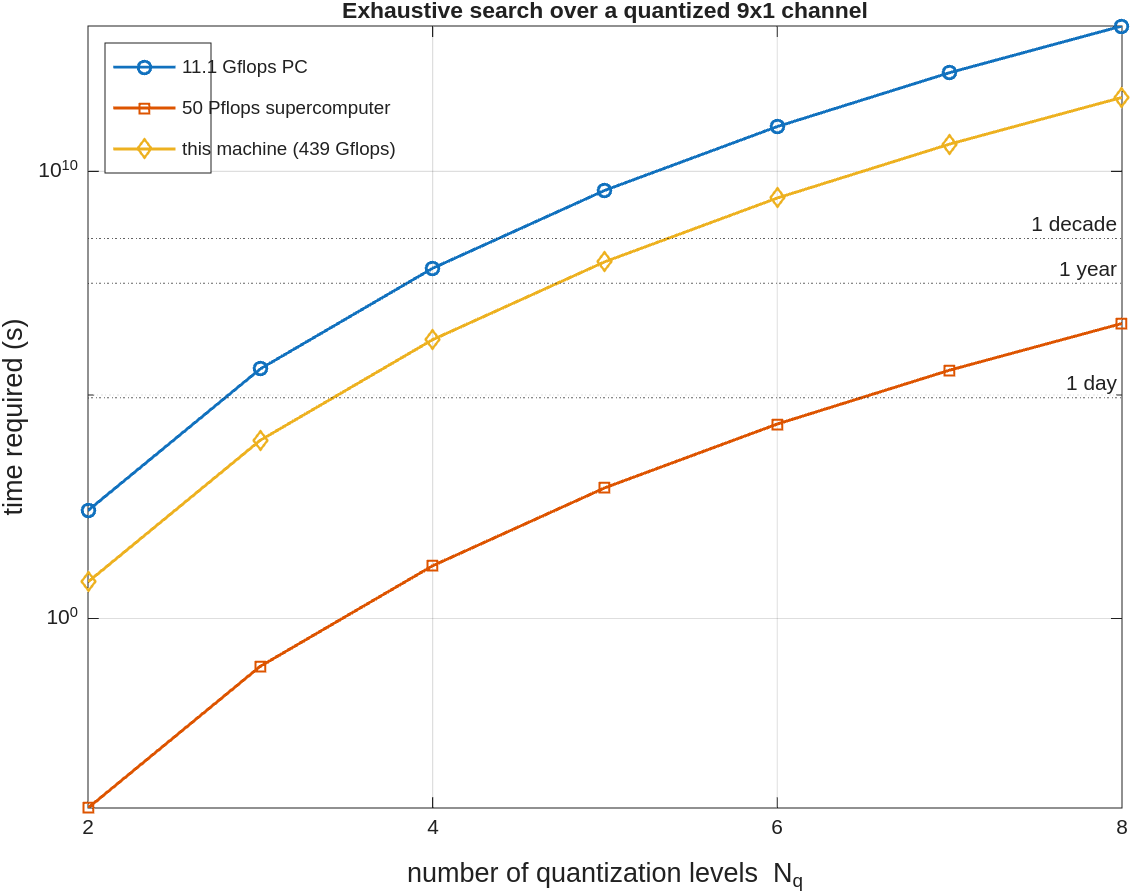
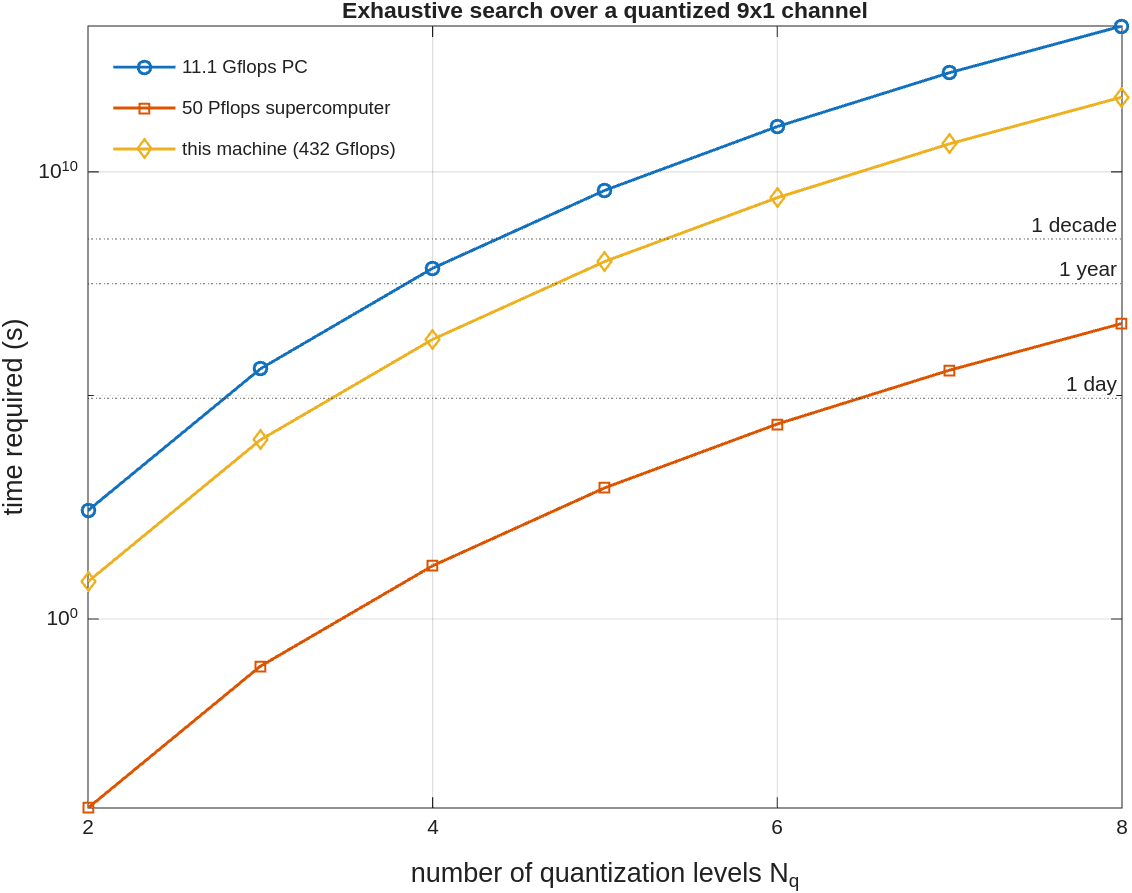
Deepen attack sweep to 1750 trials/level; report percentages; fix Fig. 1 legend

diff --git a/reproduce_paper.m b/reproduce_paper.m
@@ -53,6 +53,9 @@ switch lower(preset)
     case 'full'
         cfg.RRR = 100; cfg.beta = [0.001 0.01 0.1 0.2 0.3 0.4 0.5 0.6 0.7 0.8 0.9 1];
         cfg.my_iter = 7000; cfg.nsvd = 2^18;
+    case 'deep'
+        cfg.RRR = 1750; cfg.beta = [0.001 0.01 0.1 0.2 0.3 0.4 0.5 0.6 0.7 0.8 0.9 1];
+        cfg.my_iter = 7000; cfg.nsvd = 2^18;
     otherwise
         error('unknown preset %s', preset);
 end
@@ -152,7 +155,7 @@ grid on;
 xlabel('number of quantization levels  N_q','FontSize',13);
 ylabel('time required (s)','FontSize',13);
 legend('11.1 Gflops PC', '50 Pflops supercomputer', ...
-       sprintf('this machine (%.0f Gflops)',gflops), 'Location','northwest');
+       sprintf('this machine (%.0f Gflops)',gflops), 'Location','northwest', 'Box','off');
 title('Exhaustive search over a quantized 9x1 channel');
 exportgraphics(f, fullfile(outdir,'fig1_exhaustive_time.png'), 'Resolution',150);
 close(f);

diff --git a/README.md b/README.md
@@ -12,8 +12,8 @@ The paper quantifies the *unconditional secrecy* (UNS) of several classic physic
 
 This repository holds the two simulations behind that claim:
 
-- **Eve's Gauss-Newton attack (§VI-A).** For a small channel (`N_A = 4`) Eve can try to solve the nonlinear system directly. The reproduced sweep shows this works only when channel reciprocity is nearly perfect. With reciprocity noise `sqrt(beta) = 0.03` Eve recovers the hidden channel samples in **43 of 100** trials, but this collapses to **5 of 100** at `sqrt(beta) = 0.32` and to essentially zero beyond, with over 90% of attempts failing to converge.
-- **Eve's search cost (paper Fig. 1).** For a 9x1 channel (`N_A = 9`), Eve's exhaustive search over a channel quantized to `N_q` levels per real component must evaluate `N_q^18` candidates, each a 3x3 SVD. Timing one 3x3 SVD on this machine gives `T_2 = 6.6 s` for the `N_q = 2` workload; scaling by `(N_q/2)^18` and to the paper's reference machines reproduces Fig. 1: at `N_q = 8` the search takes about `1.8e13 s` (~560,000 years) on the 11.1 Gflops PC and about `4e6 s` (~46 days) on a 50 Pflops supercomputer.
+- **Eve's Gauss-Newton attack (§VI-A).** For a small channel (`N_A = 4`) Eve can try to solve the nonlinear system directly. The reproduced sweep (1750 trials per noise level) shows this works only when channel reciprocity is nearly perfect. With reciprocity noise `sqrt(beta) = 0.03` Eve recovers the hidden channel samples in **44%** of trials, but this collapses to **5%** at `sqrt(beta) = 0.32` and to well under 1% beyond, with over 90% of attempts failing to converge.
+- **Eve's search cost (paper Fig. 1).** For a 9x1 channel (`N_A = 9`), Eve's exhaustive search over a channel quantized to `N_q` levels per real component must evaluate `N_q^18` candidates, each a 3x3 SVD. Timing one 3x3 SVD on this machine gives `T_2 = 6.8 s` for the `N_q = 2` workload; scaling by `(N_q/2)^18` and to the paper's reference machines reproduces Fig. 1: at `N_q = 8` the search takes about `1.8e13 s` (~580,000 years) on the 11.1 Gflops PC and about `4e6 s` (~47 days) on a 50 Pflops supercomputer.
 
 ---
 
@@ -47,26 +47,26 @@ Repeating this over `RRR` trials at each reciprocity-noise level gives the attac
 <p align="center"><img src="results/fig1_exhaustive_time.png" width="560"></p>
 <p align="center"><sub>Time for Eve's exhaustive search over a quantized 9x1 channel vs. the number of quantization levels, on an 11.1 Gflops PC and a 50 Pflops supercomputer, with 1 day / 1 year / 1 decade references. Reconstructed from the measured cost of one 3x3 SVD.</sub></p>
 
-**§VI-A: Eve's Gauss-Newton attack (`N_A = 4`, 11 known samples, 100 trials per row).**
+**§VI-A: Eve's Gauss-Newton attack (`N_A = 4`, 11 known samples, 1750 trials per row).**
 
-Counts are out of 100 trials. `known_match` = Eve reproduces the samples she already sees; `hidden_break` = she also predicts the hidden samples (a genuine break); `not_converged` = the attack fails to settle. Full data (all five outcomes) in [`results/attack_table_N4.csv`](results/attack_table_N4.csv).
+Values are percent of 1750 trials. `known_match` = Eve reproduces the samples she already sees; `hidden_break` = she also predicts the hidden samples (a genuine break); `not_converged` = the attack fails to settle. Raw counts for all five outcomes in [`results/attack_table_N4.csv`](results/attack_table_N4.csv).
 
-| `sqrt_beta` | `beta` | `known_match` | `hidden_break` | `not_converged` |
-|------------:|-------:|--------------:|---------------:|----------------:|
-| 0.032 | 0.001 | 56 | **43** | 41 |
-| 0.100 | 0.01  | 28 | **14** | 69 |
-| 0.316 | 0.1   | 7  | **5**  | 92 |
-| 0.447 | 0.2   | 7  | 2      | 93 |
-| 0.548 | 0.3   | 3  | 1      | 97 |
-| 0.632 | 0.4   | 2  | 1      | 98 |
-| 0.707 | 0.5   | 1  | 0      | 99 |
-| 0.775 | 0.6   | 2  | 1      | 98 |
-| 0.837 | 0.7   | 3  | 2      | 97 |
-| 0.894 | 0.8   | 2  | 0      | 98 |
-| 0.949 | 0.9   | 2  | 1      | 98 |
-| 1.000 | 1.0   | 0  | 0      | 100 |
+| `sqrt_beta` | `beta` | `known_match` % | `hidden_break` % | `not_converged` % |
+|------------:|-------:|----------------:|-----------------:|------------------:|
+| 0.032 | 0.001 | 55.3 | **43.9** | 38.7 |
+| 0.100 | 0.01  | 28.7 | **17.4** | 68.2 |
+| 0.316 | 0.1   | 8.1  | **4.8**  | 90.2 |
+| 0.447 | 0.2   | 4.9  | 2.2      | 94.7 |
+| 0.548 | 0.3   | 3.3  | 1.1      | 96.2 |
+| 0.632 | 0.4   | 2.5  | 1.2      | 97.2 |
+| 0.707 | 0.5   | 1.8  | 0.6      | 98.1 |
+| 0.775 | 0.6   | 1.3  | 0.8      | 98.6 |
+| 0.837 | 0.7   | 1.4  | 0.5      | 98.3 |
+| 0.894 | 0.8   | 1.1  | 0.3      | 98.6 |
+| 0.949 | 0.9   | 1.1  | 0.4      | 98.9 |
+| 1.000 | 1.0   | 1.1  | 0.4      | 98.9 |
 
-Eve breaks RRCM only near perfect reciprocity. The break rate falls from 43% at `sqrt_beta = 0.03` to 5% at `0.32` and to essentially zero beyond, with over 90% of attempts failing to converge.
+Eve breaks RRCM only near perfect reciprocity. The break rate falls from 44% at `sqrt_beta = 0.03` to 5% at `0.32` and to well under 1% beyond, with over 90% of attempts failing to converge.
 
 Note on scope: the SPAWC paper contains one figure (Fig. 1) and reports the §VI-A attack results in the text. The attack code here is the generalized RRCM/CEF form (Eve recovers the rank-1 lift `x x^T` from `K` known samples).
 
@@ -104,9 +104,10 @@ reproduce_paper('only','fig1')        % just Figure 1
 
 | Preset | Attack trials (RRR) | Noise levels | Newton iters | Fig. 1 SVDs timed | Runtime |
 |--------|--------------------:|-------------:|-------------:|------------------:|---------|
-| `smoke` | 3   | 3  | 500  | 2^12 | seconds |
-| `quick` | 20  | 6  | 2000 | 2^15 | ~1 min  |
-| `full`  | 100 | 12 | 7000 | 2^18 | minutes |
+| `smoke` | 3    | 3  | 500  | 2^12 | seconds |
+| `quick` | 20   | 6  | 2000 | 2^15 | ~1 min  |
+| `full`  | 100  | 12 | 7000 | 2^18 | ~14 min |
+| `deep`  | 1750 | 12 | 7000 | 2^18 | ~3.5 h  |
 
 Options: `'N',8` for the larger `N_A = 8` attack, `'workers',N` to size the pool, `'seed',S` for the base seed (trials are seeded per-trial, so results are identical regardless of worker count). Outputs land in `results/`: `attack_table_N4.csv` (+ `.mat`), `fig1_data.mat`, and `fig1_exhaustive_time.png`.
 